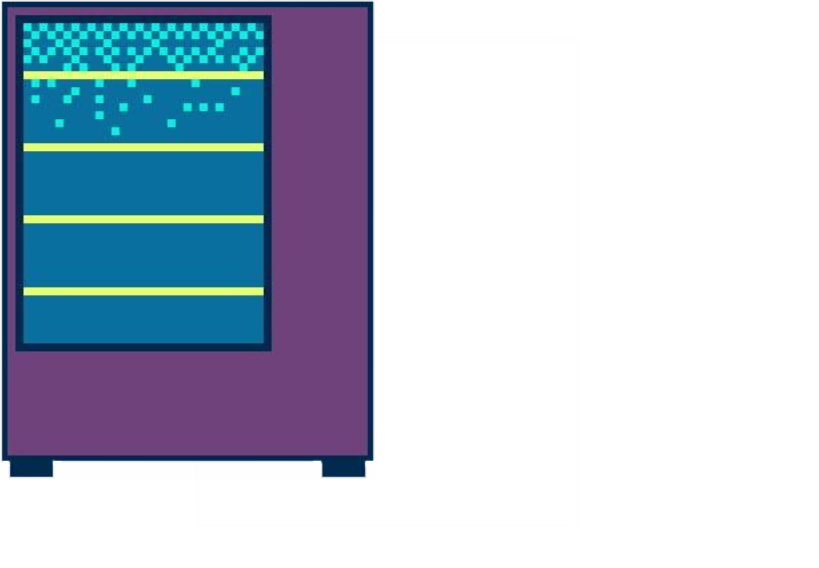
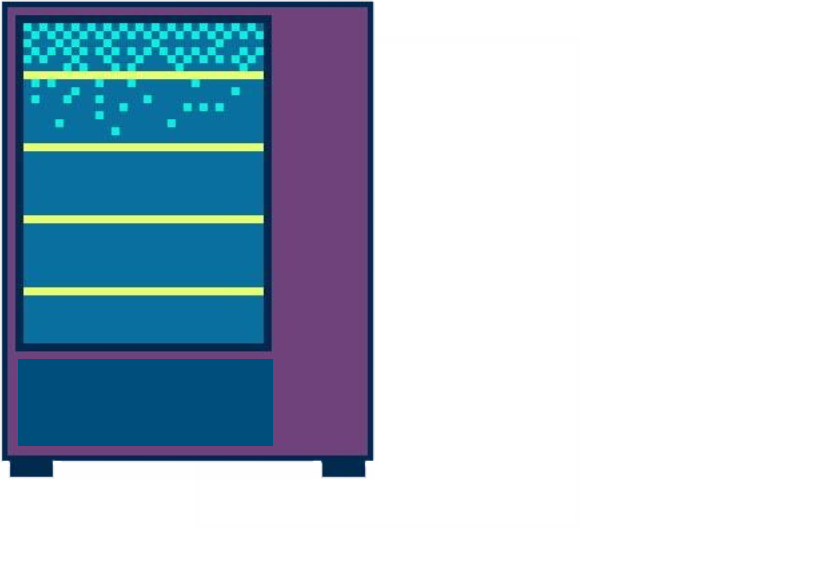
version 5

Changed region(s): [[0.0, 0.6285, 0.3358, 0.8081]]

diff --git a/src/Fondo.java b/src/Fondo.java
@@ -6,9 +6,10 @@ import java.net.URL;
 
 public class Fondo extends JPanel implements ActionListener {
     productos producto, producto2, producto3, producto4, producto5, producto6, producto7, producto8, producto9, producto10, producto11, producto12;
-    JButton musica, cocacola;
+    JButton musica, cocacola, monster, leche, chips1, chips2, pollo, pepsi, jugoNaranja, soda, jugoFresa, lecheChocolate, lecheVanilla;
     JLayeredPane layeredPane;
-    JLabel salida;
+    productos selectedProduct;
+
         boolean pipipi = true;
     public Fondo() {
         JFrame ventana = new JFrame("Juego de la maquina");
@@ -34,25 +35,106 @@ public class Fondo extends JPanel implements ActionListener {
         producto11 = new productos(this, "/Imagenes/bebida5.png", 250, 500, 80, 110);
         producto12 = new productos(this, "/Imagenes/bebida6.png", 400, 498, 80, 110);
 
-
-
-
-
         musica = new JButton("Musika");
-        musica.setBounds(500, 20, 80, 70);
+        musica.setBounds(560, 40, 80, 70);
         musica.addActionListener(this);
         layeredPane.add(musica, JLayeredPane.PALETTE_LAYER);
 
-        cocacola = new JButton("coca cola");
-        cocacola.setBounds(500, 100, 80, 70);
+        cocacola = new JButton();
+        cocacola.setBounds(550, 120, 80, 70);
+        cocacola.setIcon(imgBotones("/Imagenes/bebida1.png", 50, 70));
+        cocacola.setOpaque(true);
+        cocacola.setBackground(new Color(0, 0, 0));
         cocacola.addActionListener(this);
         layeredPane.add(cocacola, JLayeredPane.PALETTE_LAYER);
 
-        salida = new JLabel();
-        salida.setBounds(450, 500, 80, 70);
-        salida.setBackground(new Color(17, 39, 243));
-        salida.setOpaque(true);
-        add(salida);
+        monster = new JButton();
+        monster.setBounds(640, 120, 80, 70);
+        monster.setIcon(imgBotones("/Imagenes/bebida2.png", 50, 70));
+        monster.setOpaque(true);
+        monster.setBackground(new Color(0, 0, 0));
+        monster.addActionListener(this);
+        layeredPane.add(monster, JLayeredPane.PALETTE_LAYER);
+
+        leche = new JButton();
+        leche.setBounds(550, 200, 80, 70);
+        leche.setIcon(imgBotones("/Imagenes/bebida11.png", 50, 70));
+        leche.setOpaque(true);
+        leche.setBackground(new Color(0, 0, 0));
+        leche.addActionListener(this);
+        layeredPane.add(leche, JLayeredPane.PALETTE_LAYER);
+
+        chips1 = new JButton();
+        chips1.setBounds(640, 200, 80, 70);
+        chips1.setIcon(imgBotones("/Imagenes/comida3.png", 50, 70));
+        chips1.setOpaque(true);
+        chips1.setBackground(new Color(0, 0, 0));
+        chips1.addActionListener(this);
+        layeredPane.add(chips1, JLayeredPane.PALETTE_LAYER);
+
+        chips2 = new JButton();
+        chips2.setBounds(550, 280, 80, 70);
+        chips2.setIcon(imgBotones("/Imagenes/comida4.png", 50, 70));
+        chips2.setOpaque(true);
+        chips2.setBackground(new Color(0, 0, 0));
+        chips2.addActionListener(this);
+        layeredPane.add(chips2, JLayeredPane.PALETTE_LAYER);
+
+        pollo = new JButton();
+        pollo.setBounds(640, 280, 80, 70);
+        pollo.setIcon(imgBotones("/Imagenes/comida7.png", 50, 70));
+        pollo.setOpaque(true);
+        pollo.setBackground(new Color(0, 0, 0));
+        pollo.addActionListener(this);
+        layeredPane.add(pollo, JLayeredPane.PALETTE_LAYER);
+
+        pepsi = new JButton();
+        pepsi.setBounds(550, 360, 80, 70);
+        pepsi.setIcon(imgBotones("/Imagenes/bebida3.png", 50, 70));
+        pepsi.setOpaque(true);
+        pepsi.setBackground(new Color(0, 0, 0));
+        pepsi.addActionListener(this);
+        layeredPane.add(pepsi, JLayeredPane.PALETTE_LAYER);
+
+        jugoNaranja = new JButton();
+        jugoNaranja.setBounds(640, 360, 80, 70);
+        jugoNaranja.setIcon(imgBotones("/Imagenes/bebida9.png", 50, 70));
+        jugoNaranja.setOpaque(true);
+        jugoNaranja.setBackground(new Color(0, 0, 0));
+        jugoNaranja.addActionListener(this);
+        layeredPane.add(jugoNaranja, JLayeredPane.PALETTE_LAYER);
+
+        soda = new JButton();
+        soda.setBounds(550, 440, 80, 70);
+        soda.setIcon(imgBotones("/Imagenes/bebida7.png", 50, 70));
+        soda.setOpaque(true);
+        soda.setBackground(new Color(0, 0, 0));
+        soda.addActionListener(this);
+        layeredPane.add(soda, JLayeredPane.PALETTE_LAYER);
+
+        jugoFresa = new JButton();
+        jugoFresa.setBounds(640, 440, 80, 70);
+        jugoFresa.setIcon(imgBotones("/Imagenes/bebida8.png", 50, 70));
+        jugoFresa.setOpaque(true);
+        jugoFresa.setBackground(new Color(0, 0, 0));
+        jugoFresa.addActionListener(this);
+        layeredPane.add(jugoFresa, JLayeredPane.PALETTE_LAYER);
+
+        lecheChocolate = new JButton();
+        lecheChocolate.setBounds(550, 520, 80, 70);
+        lecheChocolate.setIcon(imgBotones("/Imagenes/bebida5.png", 50, 70));
+        lecheChocolate.setOpaque(true);
+        lecheChocolate.setBackground(new Color(0, 0, 0));
+        lecheChocolate.addActionListener(this);
+        layeredPane.add(lecheChocolate, JLayeredPane.PALETTE_LAYER);
+
+        lecheVanilla = new JButton();
+        lecheVanilla.setBounds(640, 520, 80, 70);
+        lecheVanilla.setIcon(imgBotones("/Imagenes/bebida6.png", 50, 70));
+        lecheVanilla.setOpaque(true);
+        lecheVanilla.setBackground(new Color(0, 0, 0));
+        lecheVanilla.addActionListener(this);
+        layeredPane.add(lecheVanilla, JLayeredPane.PALETTE_LAYER);
 
         this.setBounds(0, 0, 1300, 1000);
         layeredPane.add(this, JLayeredPane.DEFAULT_LAYER);
@@ -62,18 +144,55 @@ public class Fondo extends JPanel implements ActionListener {
         ventana.setVisible(true);
     }
 
+    public ImageIcon imgBotones(String imagen, int ancho, int alto) {
+        URL imageUrl = getClass().getResource(imagen);
+        if (imageUrl != null) {
+            ImageIcon icon1 = new ImageIcon(imageUrl);
+            Image imagen1 = icon1.getImage().getScaledInstance(ancho, alto, Image.SCALE_SMOOTH);
+            return new ImageIcon(imagen1);
+        } else {
+            System.err.println("Image not found: " + imagen);
+            return null;
+        }
+    }
+
+
+
     @Override
     public void actionPerformed(ActionEvent evento) {
         if (evento.getSource() == musica) {
-
             Musica.playWAV("src/sonidos/sonido.wav");
-
+        } else if (evento.getSource() == cocacola) {
+            selectedProduct = producto;
+        } else if (evento.getSource() == monster) {
+            selectedProduct = producto2;
+        } else if (evento.getSource() == leche) {
+            selectedProduct = producto3;
+        } else if (evento.getSource() == chips1) {
+            selectedProduct = producto4;
+        } else if (evento.getSource() == chips2) {
+            selectedProduct = producto5;
+        } else if (evento.getSource() == pollo) {
+            selectedProduct = producto6;
+        } else if (evento.getSource() == pepsi) {
+            selectedProduct = producto7;
+        } else if (evento.getSource() == jugoNaranja) {
+            selectedProduct = producto8;
+        } else if (evento.getSource() == soda) {
+            selectedProduct = producto9;
+        } else if (evento.getSource() == jugoFresa) {
+            selectedProduct = producto10;
+        } else if (evento.getSource() == lecheChocolate) {
+            selectedProduct = producto11;
+        } else if (evento.getSource() == lecheVanilla) {
+            selectedProduct = producto12;
         }
-        if (evento.getSource() == cocacola) {
-            producto.movimiento();
-            repaint();
+        if (selectedProduct != null) {
+            selectedProduct.movimiento();
         }
+        repaint();
     }
+
 
     @Override
     protected void paintComponent(Graphics g) {
@@ -85,17 +204,32 @@ public class Fondo extends JPanel implements ActionListener {
         } else {
             System.err.println("Image not found: /maquina.png");
         }
-        producto.paint(g);
-        producto2.paint(g);
-        producto3.paint(g);
-        producto4.paint(g);
-        producto5.paint(g);
-        producto6.paint(g);
-        producto7.paint(g);
-        producto8.paint(g);
-        producto9.paint(g);
-        producto10.paint(g);
-        producto11.paint(g);
-        producto12.paint(g);
+
+
+        if (selectedProduct != producto) producto.paint(g);
+        if (selectedProduct != producto2) producto2.paint(g);
+        if (selectedProduct != producto3) producto3.paint(g);
+        if (selectedProduct != producto4) producto4.paint(g);
+        if (selectedProduct != producto5) producto5.paint(g);
+        if (selectedProduct != producto6) producto6.paint(g);
+        if (selectedProduct != producto7) producto7.paint(g);
+        if (selectedProduct != producto8) producto8.paint(g);
+        if (selectedProduct != producto9) producto9.paint(g);
+        if (selectedProduct != producto10) producto10.paint(g);
+        if (selectedProduct != producto11) producto11.paint(g);
+        if (selectedProduct != producto12) producto12.paint(g);
+
+        // Draw the selected product last
+        if (selectedProduct != null) {
+            selectedProduct.paint(g);
+        }
+
+        URL imageUrl2 = getClass().getResource("/Imagenes/maquinaDesfondo.png");
+        if (imageUrl2 != null) {
+            ImageIcon desfondo = new ImageIcon(imageUrl2);
+            g.drawImage(desfondo.getImage(), 10, 10, 1600, 1150, null);
+        } else {
+            System.err.println("Image not found: /maquina.png");
+        }
     }
 }
